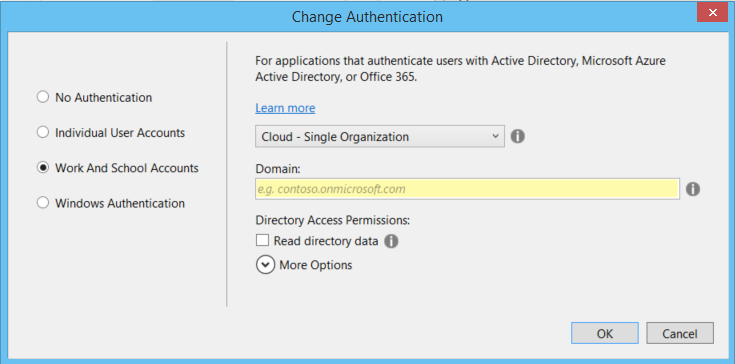
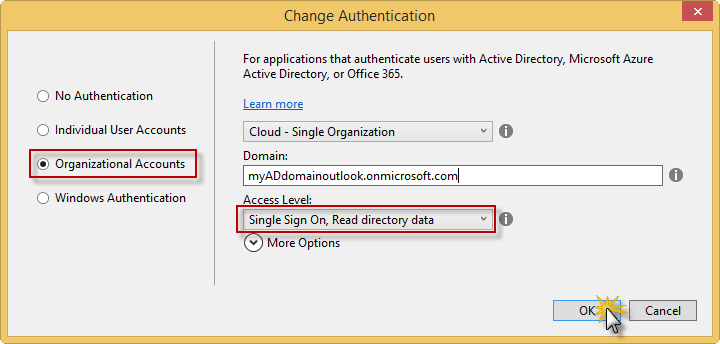
updated authentication images

diff --git a/README.md b/README.md
@@ -109,11 +109,11 @@ In this task you will start creating a new ASP.NET MVC project with support for 
     
     _Creating a new project with the MVC template, including Web API components_
 
-4. On the **Change Authentication** dialog, select **Work And School Accounts**. 
+4. On the **Change Authentication** dialog, select **Organizational Accounts**. 
 
 	These options can be used to automatically register your application with Azure AD as well as to automatically configure your application to integrate with Azure AD. You don't have to use the **Change Authentication** dialog to register and configure your application, but it makes it much easier. If you are using Visual Studio 2012 for example, you can still manually register the application in the Azure Management Portal and update its configuration to integrate with Azure AD.
 
-	In the drop-down menu, select **Cloud - Single Organization**.  Below the drop-down menu, select **Read directory data**. Enter the domain for your Azure AD directory (e.g. myADdomainoutlook.onmicrosoft.com) and then click **OK**. You can get the domain name from the Domains tab for the Default Directory on the azure portal (see the next image down).
+	In the drop-down menus, select **Cloud - Single Organization** and **Single Sign On, Read directory data**. Enter the domain for your Azure AD directory (e.g. myADdomainoutlook.onmicrosoft.com) and then click **OK**. You can get the domain name from the Domains tab for the Default Directory on the azure portal (see the next image down).
 
     ![Changing Authentication_](./images/changingAutentication.png)
     
@@ -461,14 +461,6 @@ In this task you will verify that the Web API service you built in the previous 
 > ![Internet Explorer option](./images/runInIE.png)
 
 > _Internet Explorer option_
-
-> **Note:** Open your Web.Config file and make sure you have a connection string that points to a local database.  It should look something like this:
-
->````
-><connectionStrings>
->    <add name="DefaultConnection" connectionString="Data >Source=(LocalDb)\MSSQLLocalDB;AttachDbFilename=|DataDirectory|\aspnet-GeekQuiz-20141209041032.mdf;Initial >Catalog=aspnet-GeekQuiz-20141209041032;Integrated Security=True" providerName="System.Data.SqlClient" />
->  </connectionStrings>
->````
 
 1. Press **F5** to run the solution. The Log in page should appear in the browser.
 
